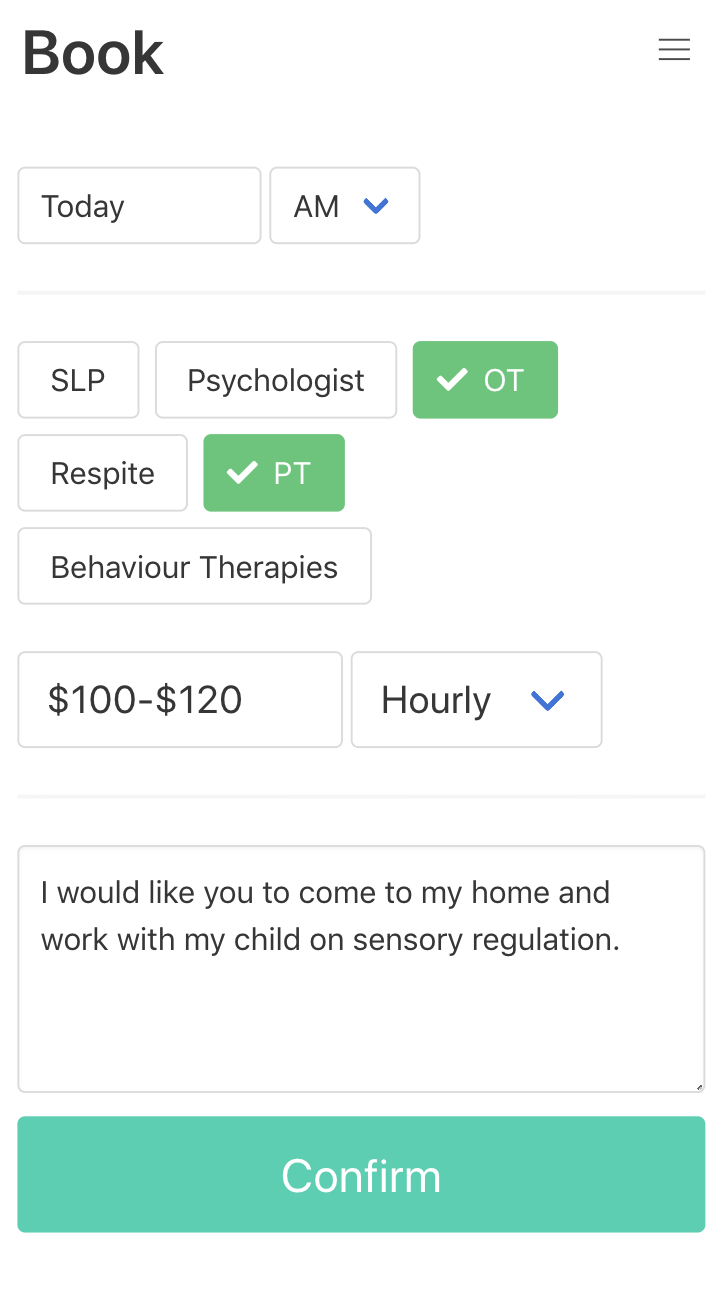
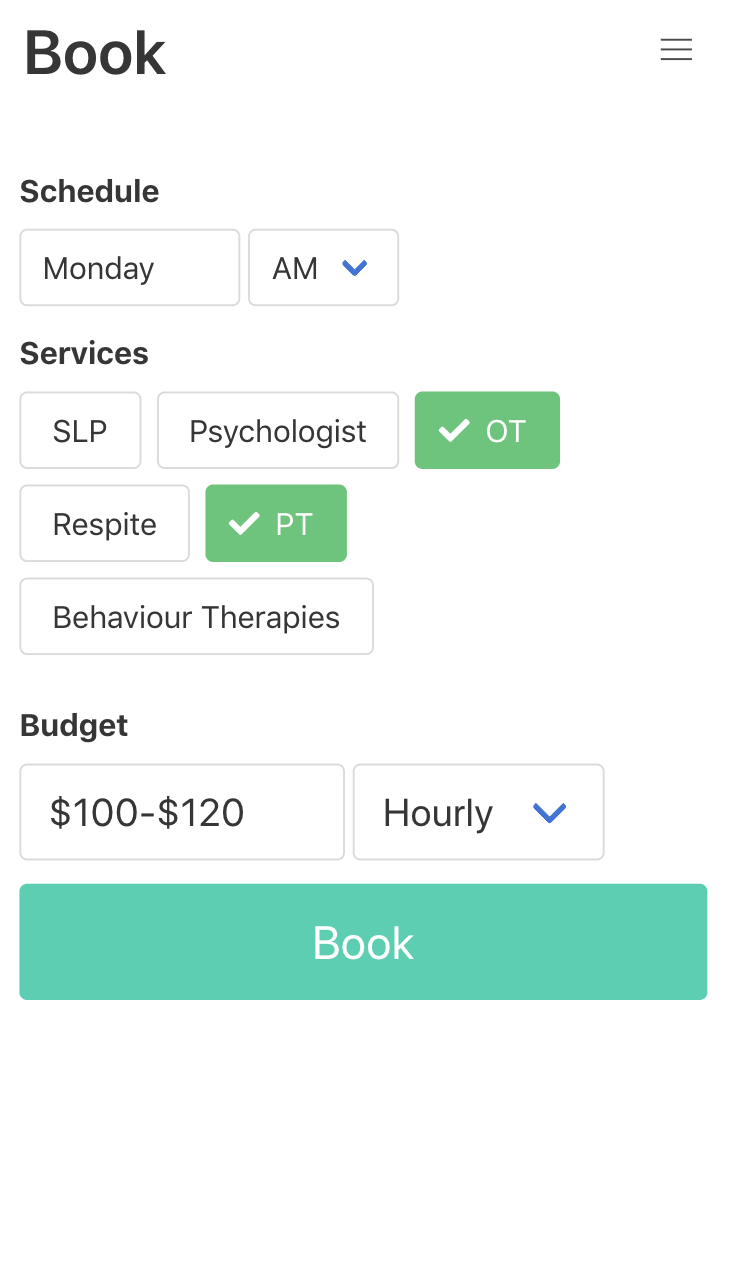
images updated

diff --git a/settings.html b/settings.html
@@ -29,6 +29,7 @@
         <div class="column">
           <form action="#">
             <div class="field">
+              <label for="" class="label">Gender</label>
               <div class="control">
                 <div class="select is-medium">
                   <select class="is-inline">
@@ -38,7 +39,9 @@
                 </div>
               </div>
             </div>
+
             <div class="field">
+              <label for="" class="label">Age</label>
               <div class="control">
                 <div class="select is-medium">
                   <select class="is-inline">
@@ -49,28 +52,27 @@
               </div>
             </div>
             <div class="field">
+              <label for="" class="label">Address</label>
               <div class="control">
                 <input type="text" class='input is-medium' value="9990 6 AVE SW, Calgary, AB" />
               </div>
             </div>
             <div class="field">
+              <label for="" class="label">Funding</label>
               <div class="control">
                 <label class=checkbox>
-                  <input type="checkbox" class=checkbox /> Private Funding
+                  <input type="checkbox" class=checkbox /> Private
+                </label>
+                <label class=checkbox>
+                  <input type="checkbox" class=checkbox /> Public
                 </label>
               </div>
             </div>
+
             <div class="field">
+              <label for="" class="label">Preferred Activities</label>
               <div class="control">
-                <label class=checkbox>
-                  <input type="checkbox" class=checkbox /> Public Funding
-                </label>
-              </div>
-            </div>
-            <hr>
-            <div class="field">
-              <div class="control">
-                <textarea class="textarea">My child enjoys colouring and dancing to playful music.</textarea>
+                <textarea class="textarea" rows="2">My child enjoys colouring and dancing to playful music.</textarea>
               </div>
             </div>
             <button class="button is-large is-fullwidth is-primary">Save</button>

diff --git a/book.html b/book.html
@@ -33,8 +33,8 @@
               <div class="control">
                 <div class="select">
                   <select class="is-inline">
-                    <option value="option">Today</option>
-                    <option value="option">Tomorrow</option>
+                    <option value="option">Monday</option>
+                    <option value="option">Tuesday</option>
                   </select>
                   <select class="is-inline">
                     <option value="option">AM</option>
@@ -75,12 +75,7 @@
                 </div>
               </div>
             </div>
-            <label for="" class="label">Services</label>
-            <div class="field">
-              <div class="control">
-                <textarea class="textarea" rows="2">I would like you to come to my home and work with my child on sensory regulation.</textarea>
-              </div>
-            </div>
+
             <button class="button is-large is-fullwidth is-primary">Book</button>
           </form>
         </div>
